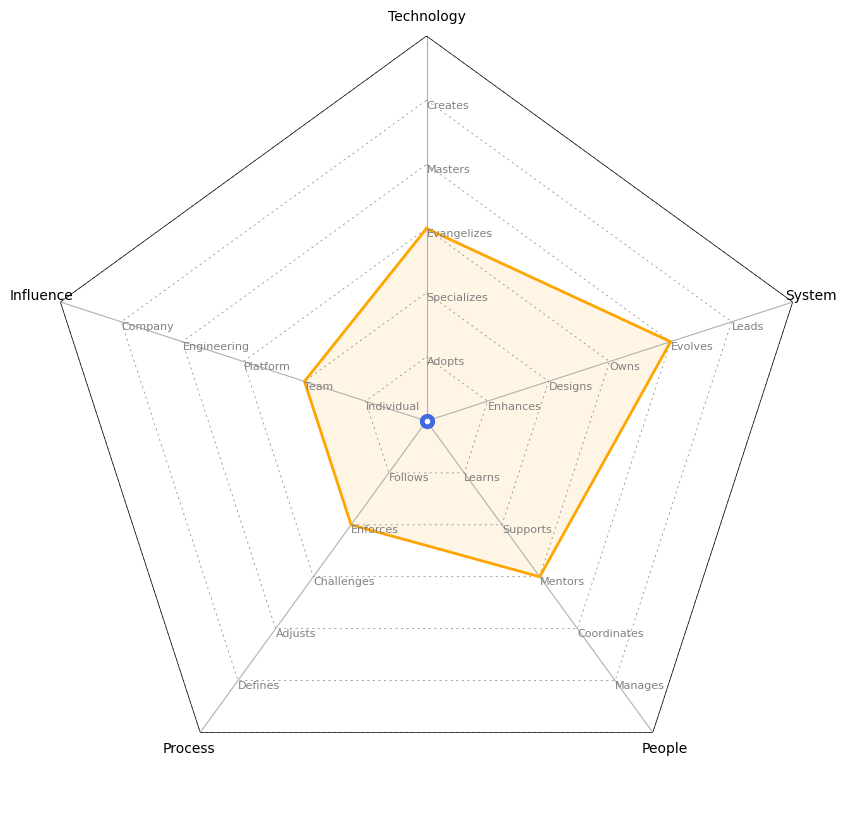
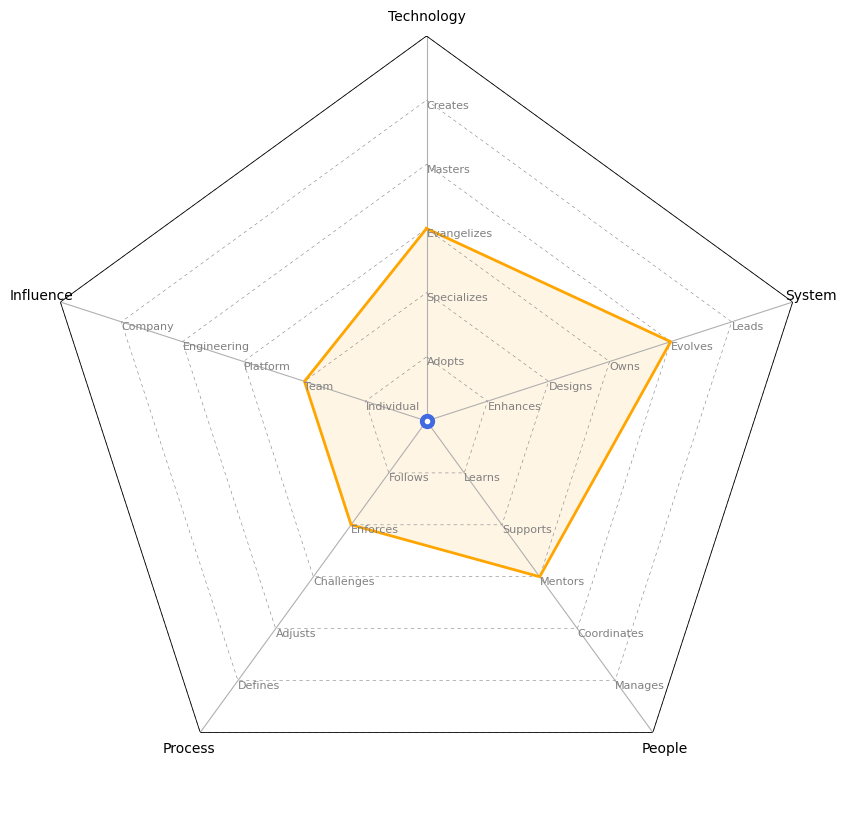
refactored

diff --git a/main.py b/main.py
@@ -52,8 +52,8 @@ class RadarChart:
 
         # Custom dotted lines
         for ytick in yticks:
-            ax.plot(angles, [ytick] * len(angles), linestyle=(0, (3, 5)), color="grey", linewidth=0.5)
-        ax.plot(angles, [yticks[-1]] * len(angles), linestyle=(0, (1, 0)), color="black", linewidth=0.5)
+            ax.plot(angles, [ytick] * len(angles), linestyle=(0, (6, 6)), color="grey", linewidth=0.4)
+        ax.plot(angles, [yticks[-1]] * len(angles), linestyle=(0, (1, 0)), color="black", linewidth=0.6)
 
     def _plot_data(self, ax, angles):
         """Plot the data on the radar chart."""
